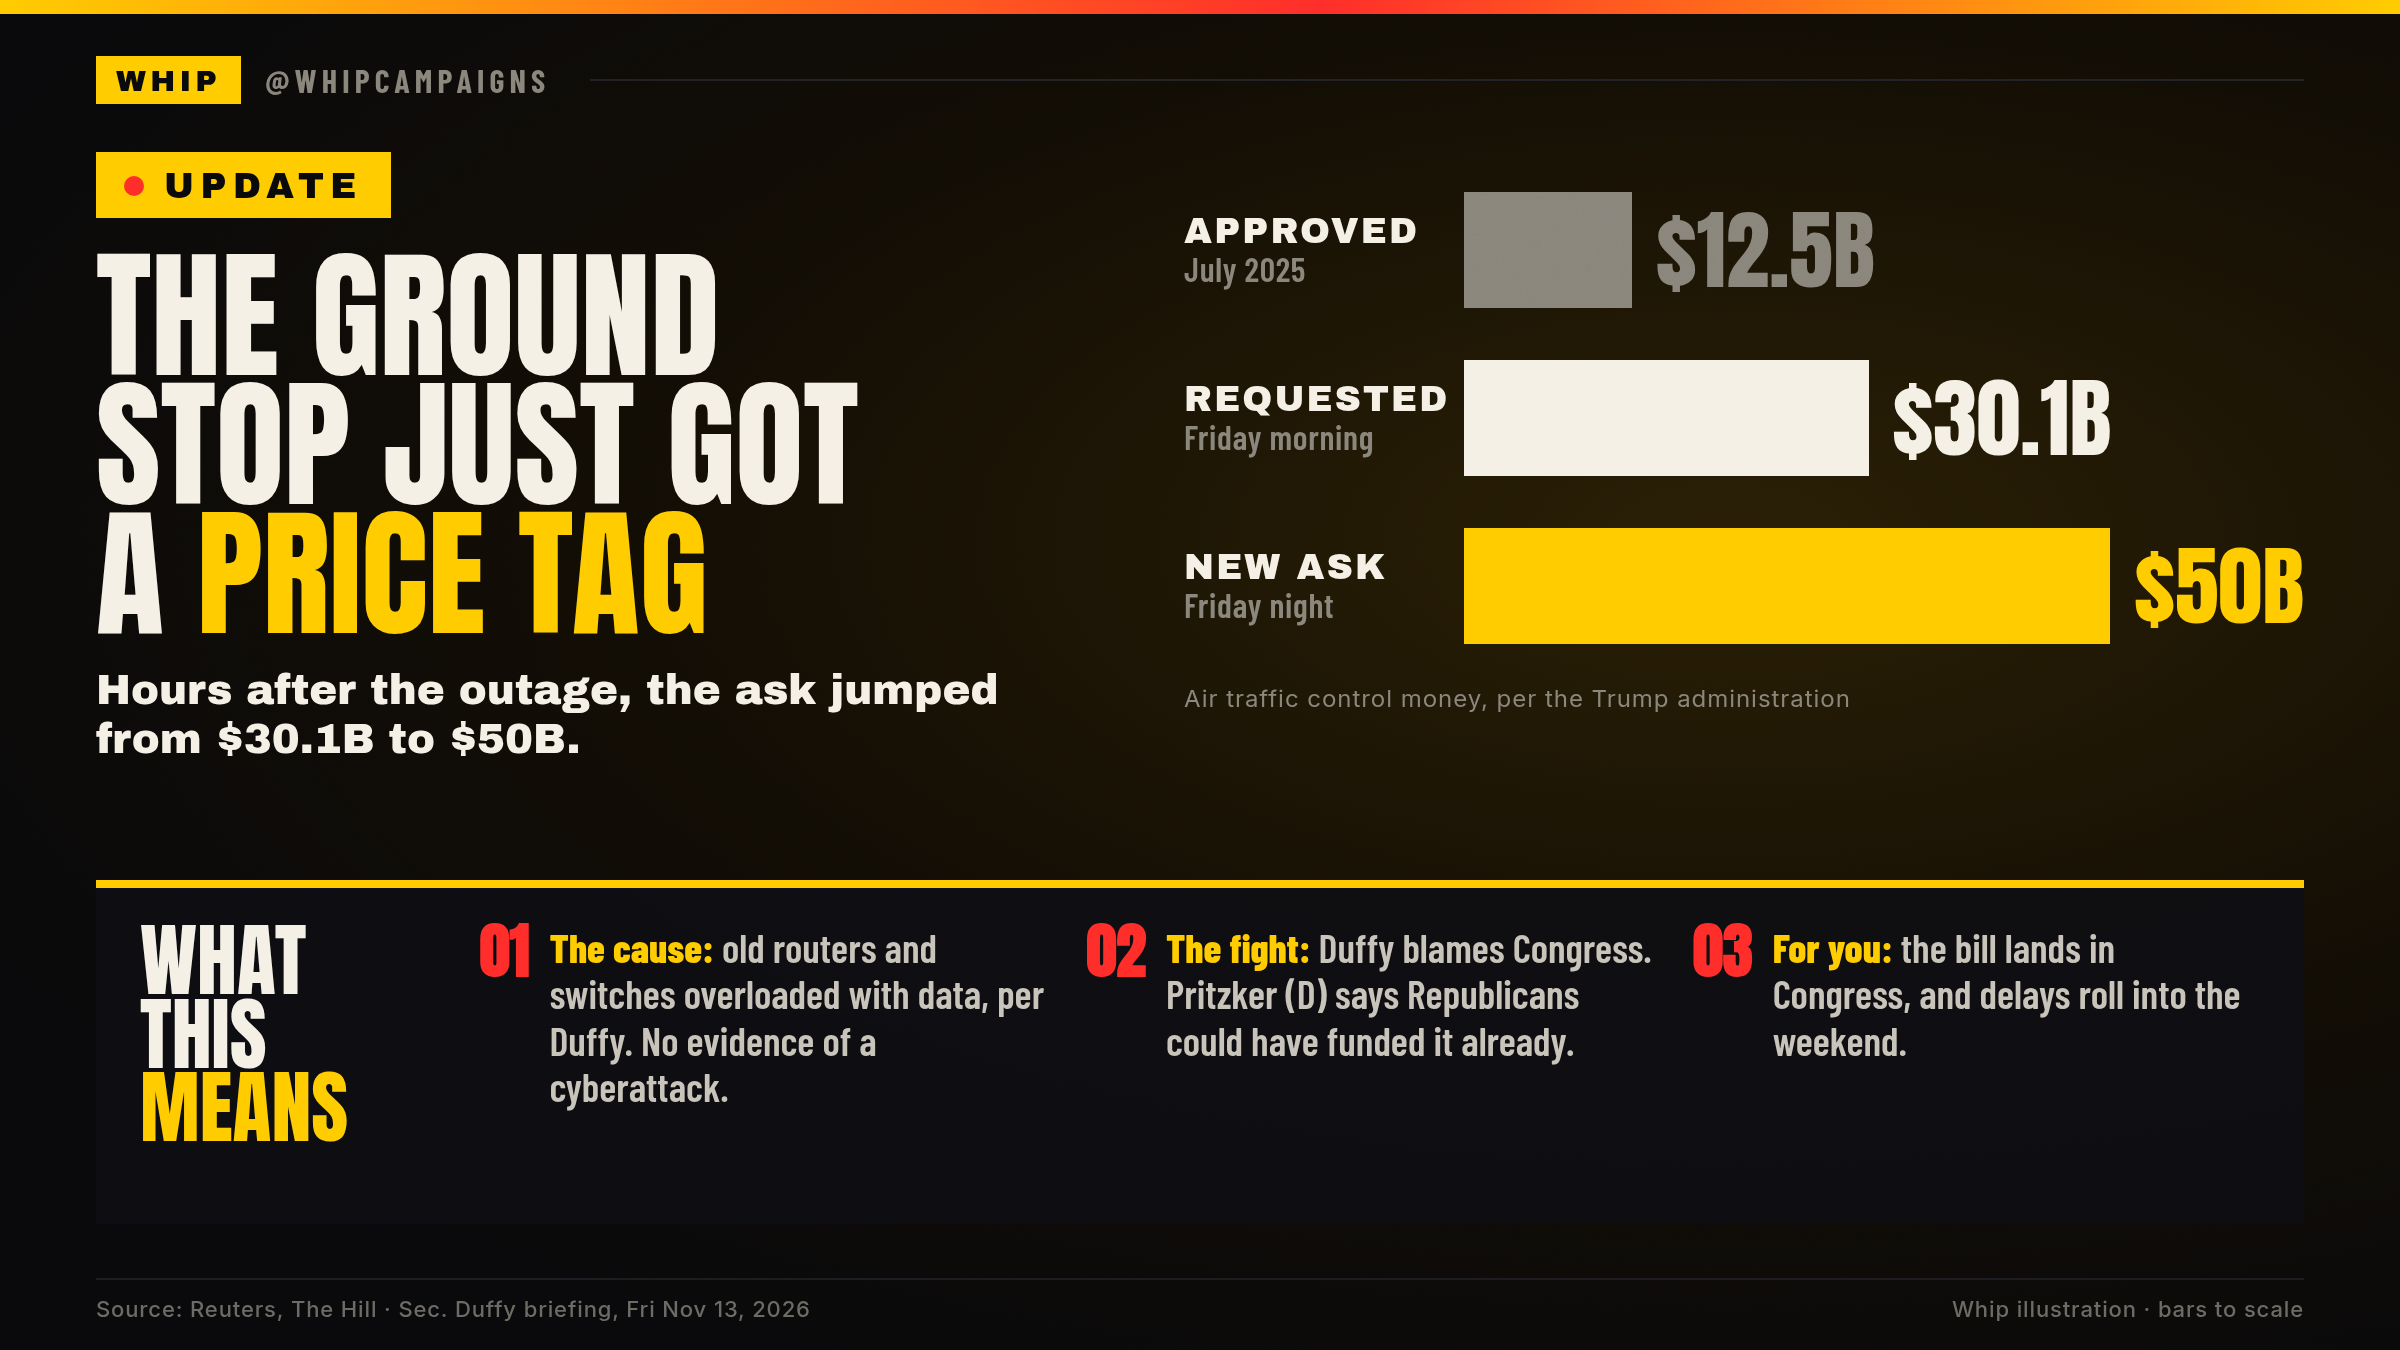
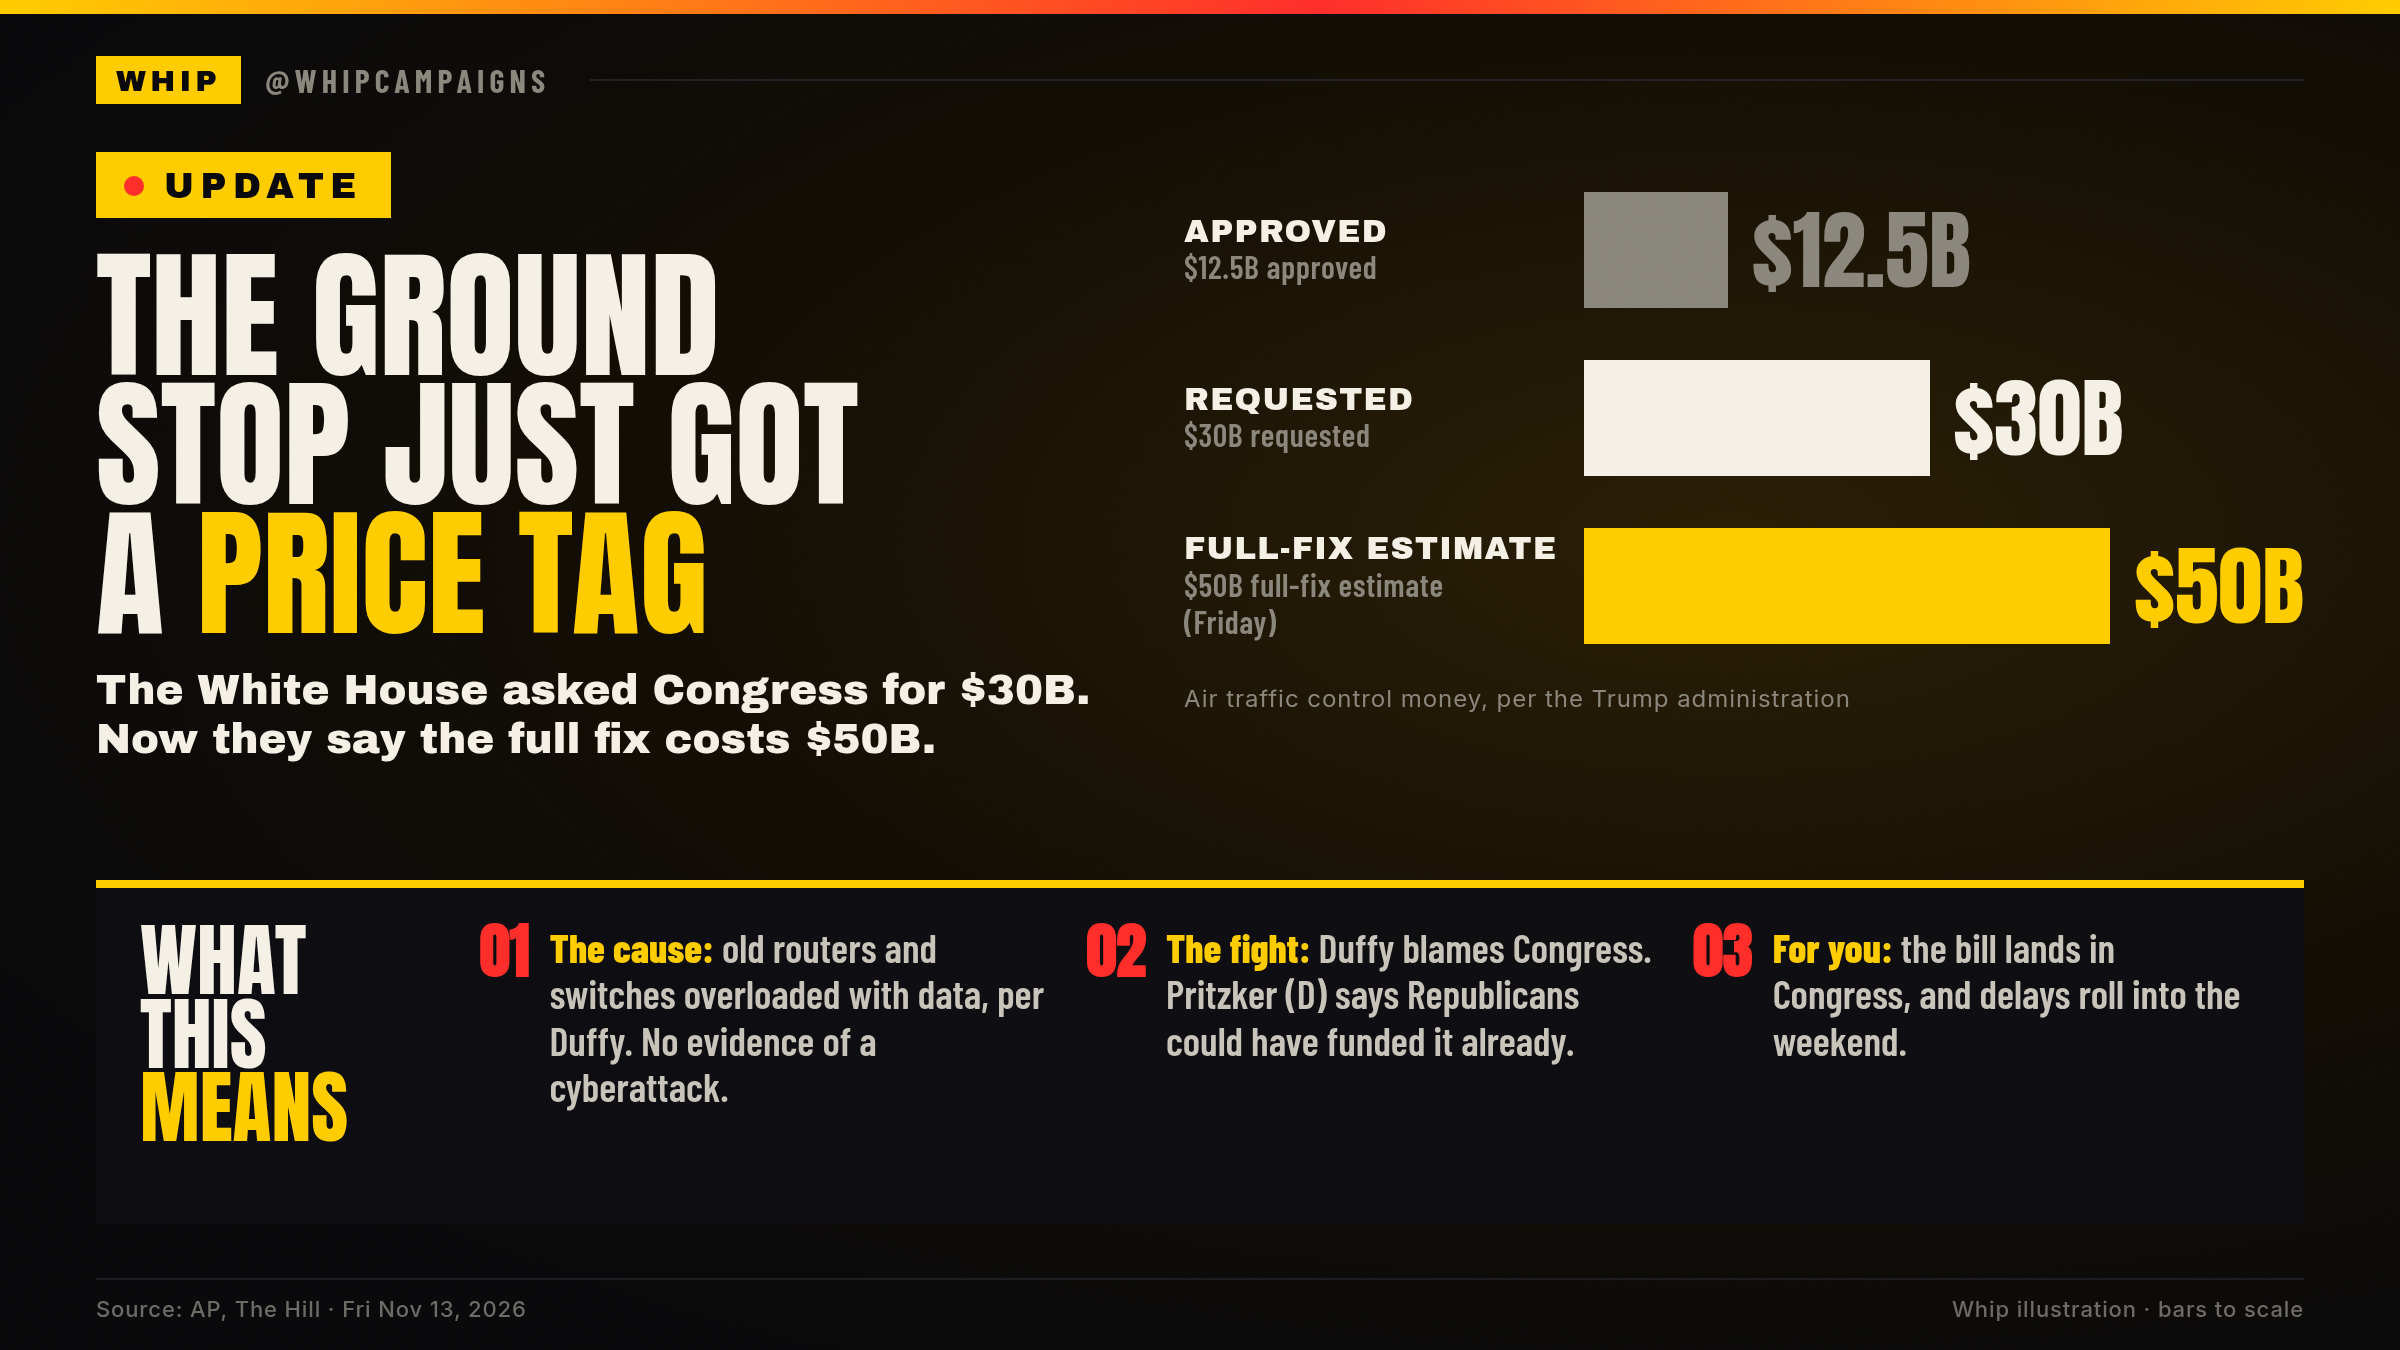
Correct FAA update card: $30B is the formal request, $50B is a full-fix estimate
Relabel the bars to $12.5B approved, $30B requested, and $50B full-fix estimate (Friday). The dek no longer says the official ask jumped to $50B.

diff --git a/2026-11-13-faa-update-50b/tweet.md b/2026-11-13-faa-update-50b/tweet.md
@@ -1,6 +1,6 @@
 Quote of @SecDuffy https://x.com/SecDuffy/status/2121429359420420310
 
-UPDATE: Hours after every flight in America was grounded, the ask to fix air traffic control jumped to $50B.
+UPDATE: Hours after every flight in America was grounded, the White House asked Congress for $30B to fix air traffic control. Now they say the full fix costs $50B.
 
 The cause, per Duffy: old routers overloaded with data.
 
@@ -8,4 +8,4 @@ Nobody says it isn't broken. The fight is over who pays.
 
 Should Congress pass it fast, or demand a plan first?
 
-Sources: Reuters https://www.investing.com/news/stock-market-news/white-house-urges-congress-to-provide-301-billion-for-aviation-reform-5024655 ; The Hill https://thehill.com/policy/transportation/6220399-duffy-billions-air-traffic-ground-stop/
+Sources: AP https://apnews.com/article/flights-halted-airports-faa-f81b0904331dafad6133f291e5f531a8 ; The Hill https://thehill.com/policy/transportation/6220399-duffy-billions-air-traffic-ground-stop/
